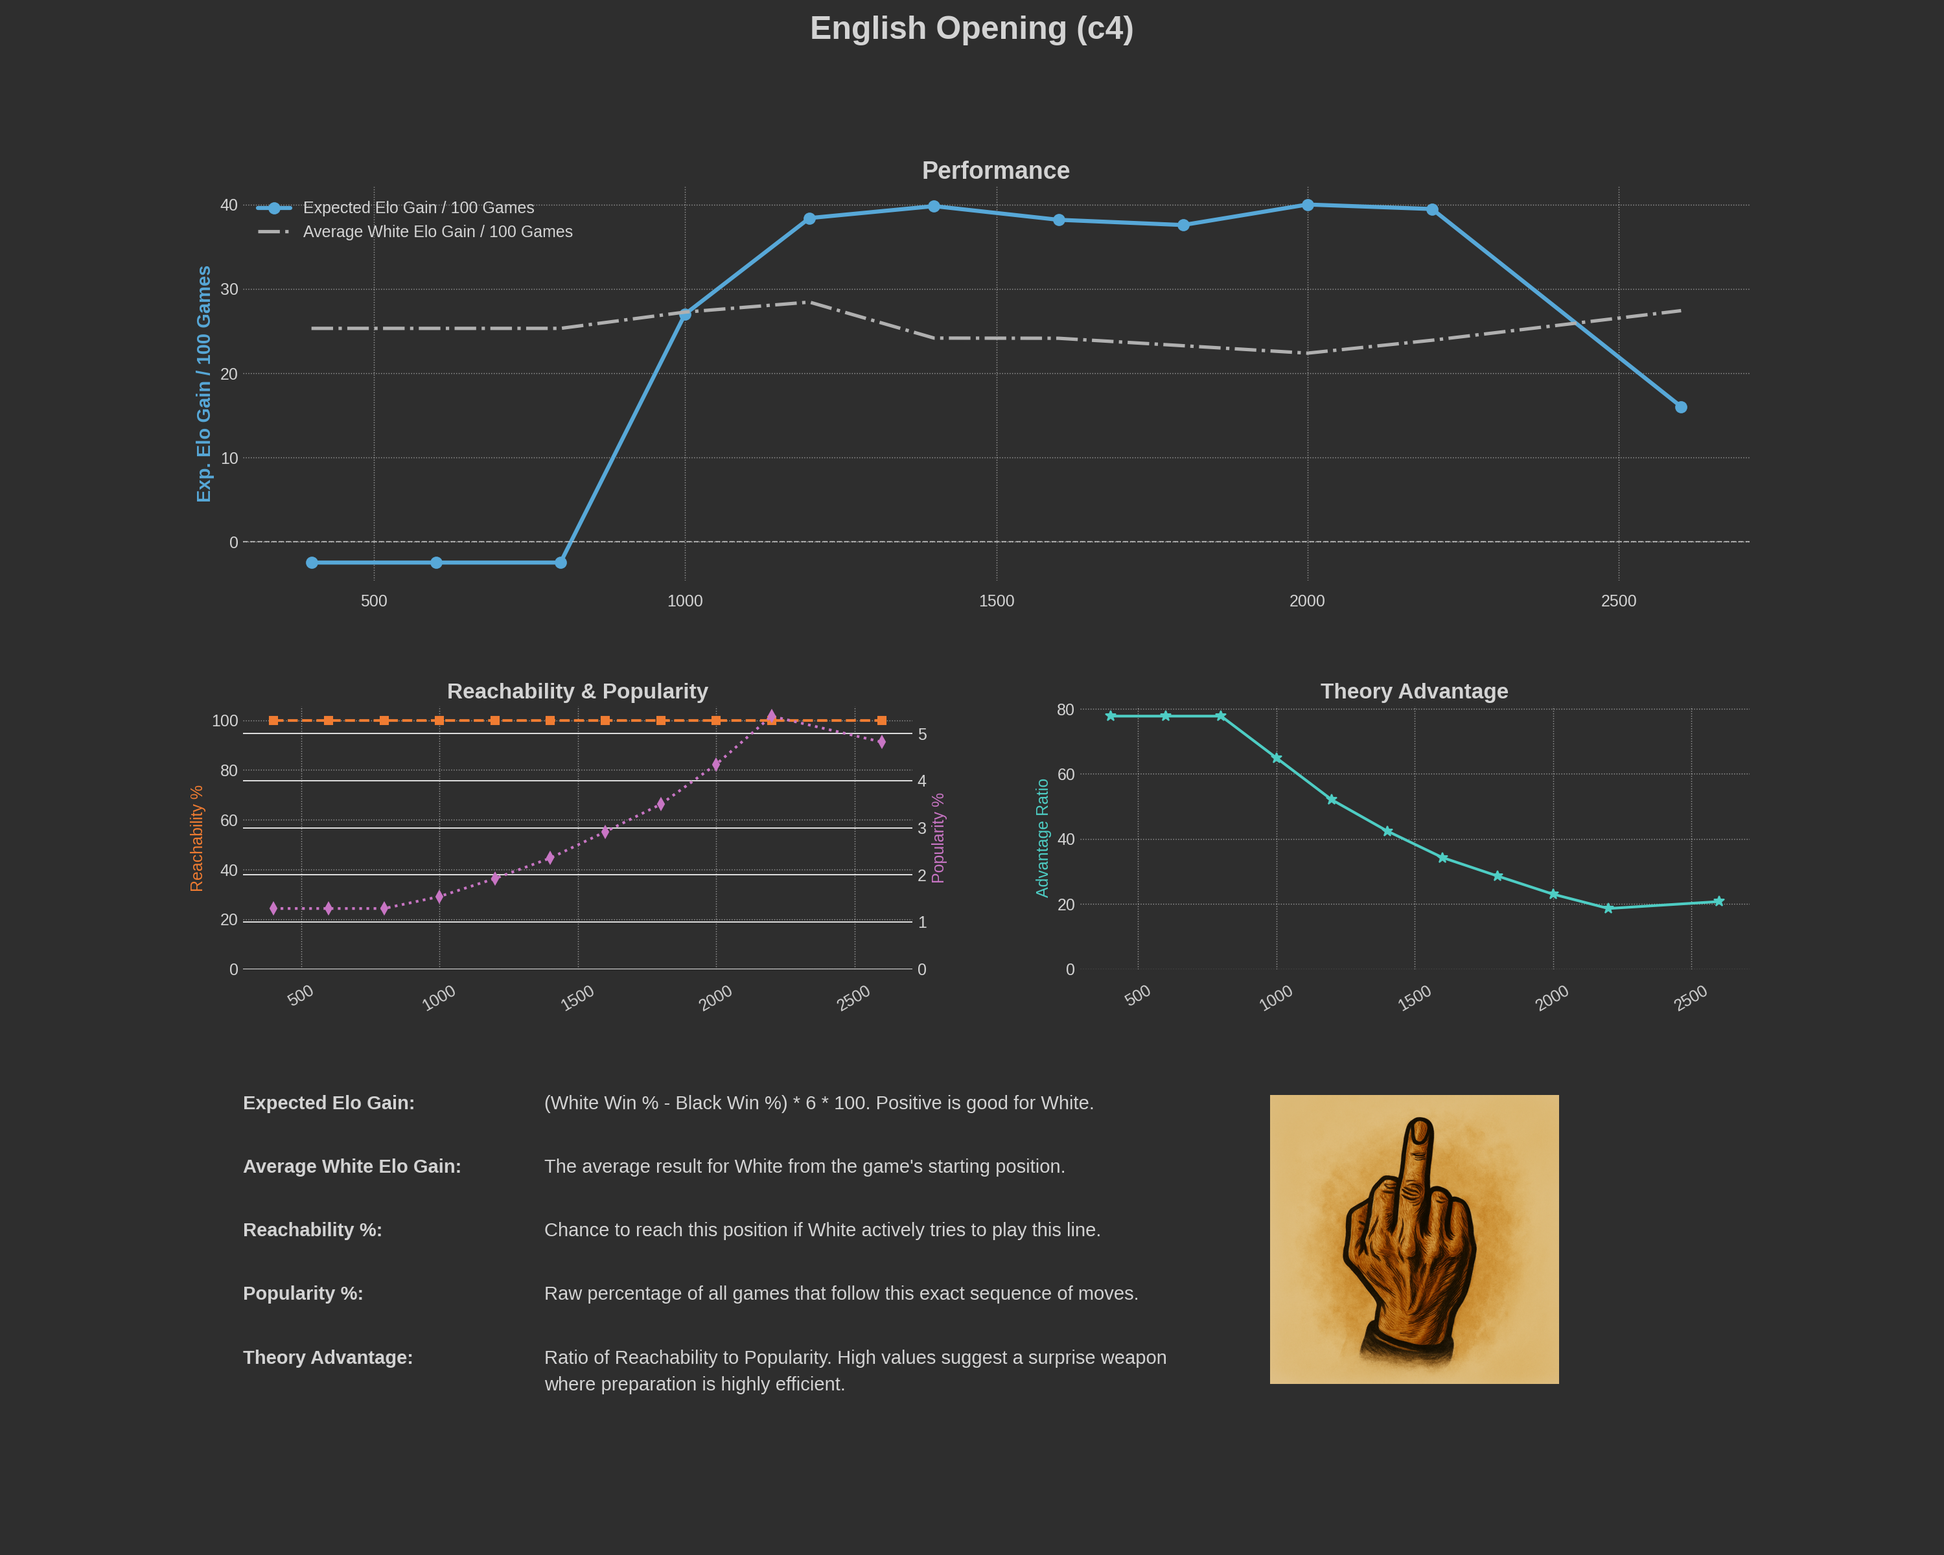
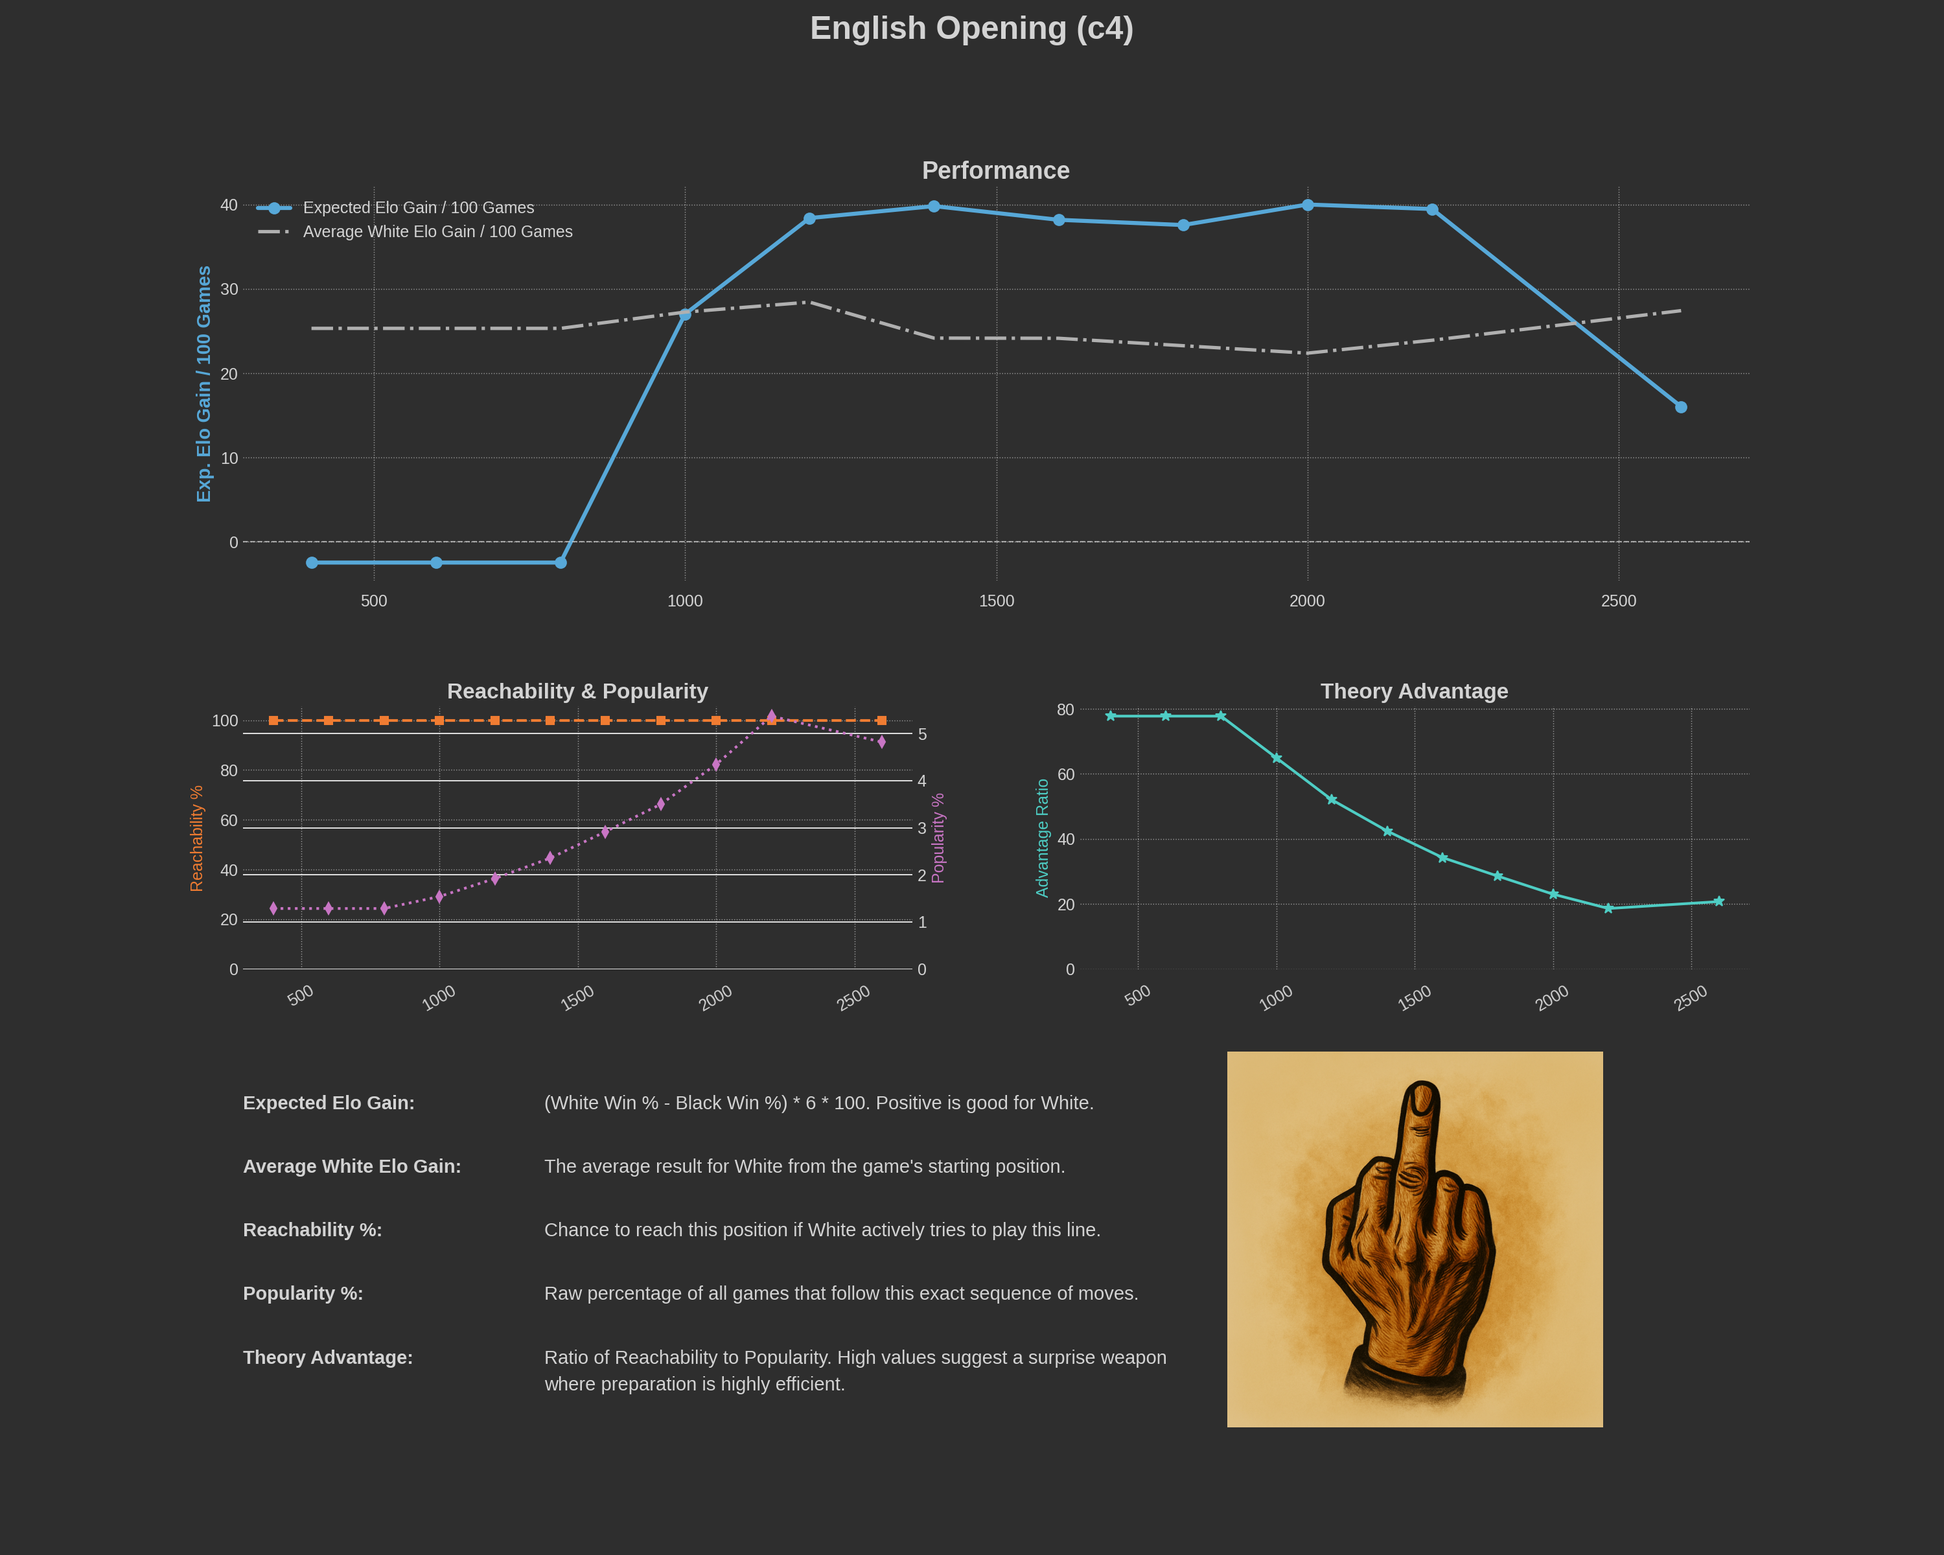
Better plots!

Changed region(s): [[0.62, 0.6562, 0.837, 0.9375]]

diff --git a/wickedlines.py b/wickedlines.py
@@ -24,7 +24,8 @@ except ImportError:
 # --- Configuration ---
 HunterConfig = namedtuple('HunterConfig', ['MIN_GAMES', 'MIN_REACH_PCT', 'DELTA_EV_THRESHOLD', 'P_VALUE_THRESHOLD', 'MAX_DEPTH', 'BRANCH_FACTOR', 'ELO_PER_POINT'])
 DEFAULT_HUNTER_CONFIG = HunterConfig(MIN_GAMES=1000, MIN_REACH_PCT=1.0, DELTA_EV_THRESHOLD=5.0, P_VALUE_THRESHOLD=0.05, MAX_DEPTH=6, BRANCH_FACTOR=4, ELO_PER_POINT=8)
-PLOT_ELO_BRACKETS = ["400", "600", "800", "1000", "1200", "1400", "1600", "1800", "2000", "2200", "2500"]
+# Align with Lichess API enum
+PLOT_ELO_BRACKETS = ["0", "1000", "1200", "1400", "1600", "1800", "2000", "2200", "2500"]
 
 # Predefined list of openings for batch plotting
 BATCH_OPENINGS = [
@@ -319,144 +320,156 @@ def get_stats_for_line(moves, speed, rating_bracket):
     ev = (final_data.get('white', 0) - final_data.get('black', 0)) / final_pos_total_games * 100 if final_pos_total_games > 0 else 0
     return ev, reachability * 100, popularity * 100, root_ev, line_name, forcing_player
 
+
 def run_plot_mode(args):
-    print(colorize(f"\nGenerating plot for line: {' '.join(args.moves)}", Colors.YELLOW))
-    print(f"Fixed Time Control: {args.speed}")
-    print("Querying Lichess database for Elo brackets. This may take a moment...")
+    """
+    Generates four 1080×1920 PNGs (Performance, Reachability,
+    Popularity, Prep-Efficiency) in plots/<moves>_<speed>/.
+    """
 
-    (elo_gain_values, baseline_elo_gain_values, reachability_values,
-     popularity_values, theory_advantage_values) = [], [], [], [], []
-    final_line_name = "Unknown Opening"
-    forcing_player = "White"
-    numeric_elo_ratings = [int(r.replace('2500', '2600')) for r in PLOT_ELO_BRACKETS]
+    # ---------- TWEAKABLES ---------------------------------------------
+    HEADER_FRAC          = 0.20         # header height % (more room)
+    CREDIT_XY            = (0.01, 0.02) # where the tiny credit sits
+    CREDIT_SIZE          = 12
+    ARROW_HEIGHT_FRAC    = 0.45         # yellow arrow vertical pos
+    LOGO_BOX             = [.76, .00, .27, 1.17]  # 30 % bigger & a bit higher
+    WRAP_WIDTH           = 46           # (only used for non-perf charts)
+    # -------------------------------------------------------------------
+
+    import os, numpy as np
+    import matplotlib.pyplot as plt
+    from matplotlib import patheffects as pe
+    from scipy.interpolate import CubicSpline
+
+    # bucket list & mid-points
+    buckets = [int(b) for b in PLOT_ELO_BRACKETS]            # 0 … 2500
+    centres = [(a + b) / 2 for a, b in zip(buckets[:-1], buckets[1:])] + [2600]
+    tick_labels = [str(int(c)) if c != 2600 else "2500+" for c in centres]
+
+    # fetch stats
+    elo_gain, base_gain, reach, pop, theory = [], [], [], [], []
+    final_name, forcing = "Unknown Opening", "White"
     ELO_FACTOR = 6
+    for bucket in buckets:
+        ev, r_, p_, root_ev, name, player = get_stats_for_line(
+            args.moves, args.speed, str(bucket)
+        )
+        adj, base = (ev, root_ev) if player == "White" else (-ev, -root_ev)
+        elo_gain.append(adj * ELO_FACTOR)
+        base_gain.append(base * ELO_FACTOR)
+        reach.append(r_); pop.append(p_); theory.append(r_/p_ if p_ else 0)
+        forcing = player
+        if name not in ("Unknown Opening", "N/A"):
+            final_name = name
 
-    for i, rating in enumerate(PLOT_ELO_BRACKETS):
-        # get_stats_for_line returns ev as a percentage score (e.g., 5.0 for +5%)
-        ev, reach, pop, root_ev, line_name, player = get_stats_for_line(args.moves, args.speed, rating)
-        
-        player_advantage = ev if player == 'White' else ev * -1
-        baseline_advantage = root_ev if player == 'White' else root_ev * -1
-        
-        # Elo gain over 100 games = (Win% - Loss%) * Elo_Factor
-        elo_gain_values.append(player_advantage * ELO_FACTOR)
-        baseline_elo_gain_values.append(baseline_advantage * ELO_FACTOR)
-        
-        theory_advantage_values.append((reach / pop) if pop > 0 else 0)
-        reachability_values.append(reach)
-        popularity_values.append(pop)
+    # paths & colours
+    moves_id, speed_id = "_".join(args.moves).lower(), args.speed.lower()
+    outdir = os.path.join("plots", f"{moves_id}_{speed_id}")
+    os.makedirs(outdir, exist_ok=True)
 
-        if line_name != "Unknown Opening": final_line_name = line_name
-        forcing_player = player
-        print(f"  ({i+1}/{len(PLOT_ELO_BRACKETS)}) Processed {rating} Elo... Elo Gain/100: {elo_gain_values[-1]:+.2f}")
+    C = dict(bg="#121212", grid="#444", txt="#e9e9e9", cap="#c7c7c7",
+             perf="#57a8d8", reach="#f07c32", pop="#c875c4",
+             theory="#4ecdc4", base="#b0b0b0", arrow="#efd545")
 
-    print(colorize("\nData collection complete. Generating final plot...", Colors.GREEN))
+    def save(fig, tag):
+        fig.savefig(os.path.join(outdir, f"{moves_id}_{speed_id}_{tag}.png"),
+                    facecolor=fig.get_facecolor())
+        plt.close(fig)
 
-    plt.style.use('seaborn-v0_8-darkgrid')
-    fig = plt.figure(figsize=(20, 16)) # Significantly larger figure
-    fig.set_facecolor('#2E2E2E')
+    # helpers
+    def fig_axes():
+        fig = plt.figure(figsize=(6.02, 10.666), dpi=180, facecolor=C["bg"])
+        gs  = fig.add_gridspec(100, 1, left=.08, right=.98)
+        head = fig.add_subplot(gs[:int(HEADER_FRAC*100), 0]); head.axis("off")
+        ax   = fig.add_subplot(gs[int(HEADER_FRAC*100):, 0])
+        ax.set_facecolor(C["bg"]); ax.grid(True, ls=":", lw=.7, color=C["grid"])
+        for s in ax.spines.values(): s.set_edgecolor(C["grid"])
+        ax.tick_params(colors=C["txt"], labelsize=13)
+        return fig, head, ax
 
-    # Define the grid layout for charts and the text/logo area
-    gs = fig.add_gridspec(3, 2, height_ratios=[3, 2, 2.2], width_ratios=(1,1), hspace=0.4, wspace=0.25)
-    ax1 = fig.add_subplot(gs[0, :])
-    ax2 = fig.add_subplot(gs[1, 0])
-    ax3 = fig.add_subplot(gs[1, 1])
-    text_ax = fig.add_subplot(gs[2, 0])
-    logo_ax = fig.add_subplot(gs[2, 1])
+    def header(ax, title, col):
+        ax.text(0, .78, "Chess Opening Statistics", color=C["cap"],
+                fontsize=19, weight="semibold")
+        ax.text(0, .54, final_name, color=C["txt"],
+                fontsize=25, weight="bold")
+        ax.text(0, .32, f"({' '.join(args.moves)}) — {args.speed.capitalize()}",
+                color=C["txt"], fontsize=18, weight="semibold")
+        ax.text(0, .10, title, color=col, fontsize=22, weight="bold")
+        logo = f"{''.join(args.moves)}_logo.png"
+        if os.path.exists(logo):
+            try:
+                box = ax.inset_axes(LOGO_BOX)
+                box.imshow(plt.imread(logo)); box.axis("off")
+            except Exception:
+                pass
 
-    color_elo = '#57A8D8'
-    color_reach = '#F07C32'
-    color_pop = '#C875C4'
-    color_theory = '#4ECDC4'
-    color_base = '#B0B0B0'
-    light_text_color = '#D3D3D3'
+    def xaxis(ax):
+        ax.set_xticks(centres)
+        ax.set_xticklabels(tick_labels, rotation=45, ha="right", color=C["txt"])
+        ax.set_xlabel("Player rating (Elo)", labelpad=15, color=C["txt"], fontsize=16)
 
-    for ax in [ax1, ax2, ax3]:
-        ax.set_facecolor('#2E2E2E')
-        for spine in ax.spines.values(): spine.set_edgecolor('gray')
-        ax.tick_params(axis='y', colors=light_text_color, labelsize=12)
-        ax.tick_params(axis='x', colors=light_text_color, labelsize=12, rotation=30, pad=10)
-        ax.grid(True, which='major', axis='both', linestyle=':', linewidth=0.7, alpha=0.5)
+    def smooth(ax, xs, ys, col, label=None):
+        cs = CubicSpline(xs, ys)
+        dense = np.linspace(xs[0], xs[-1], 400)
+        ax.plot(dense, cs(dense), color=col, lw=2.4, label=label)
+        ax.plot(xs, ys, "o", ms=7, color=col)
 
-    # Plot 1: Performance
-    ax1.set_title("Performance", color=light_text_color, fontsize=18, weight='bold')
-    ax1.set_ylabel("Exp. Elo Gain / 100 Games", color=color_elo, fontsize=14, weight='bold')
-    ax1.plot(numeric_elo_ratings, elo_gain_values, 'o-', color=color_elo, label="Expected Elo Gain / 100 Games", markersize=8, linewidth=3)
-    ax1.plot(numeric_elo_ratings, baseline_elo_gain_values, linestyle='-.', color=color_base, label=f"Average {forcing_player} Elo Gain / 100 Games", linewidth=2.5)
-    ax1.axhline(0, color='lightgray', linestyle='--', linewidth=1.0, alpha=0.7)
-    ax1.legend(facecolor='#424242', edgecolor='gray', labelcolor=light_text_color, fontsize=12)
-    plt.setp(ax1.get_xticklabels(), rotation=0)
-
-    # Plot 2: Reachability & Popularity
-    ax2.set_title("Reachability & Popularity", color=light_text_color, fontsize=16, weight='bold')
-    ax2.set_ylabel('Reachability %', color=color_reach, fontsize=12)
-    ax2.plot(numeric_elo_ratings, reachability_values, 's--', color=color_reach, markersize=6, linewidth=2)
-    ax2.set_ylim(bottom=0)
-    ax2_twin = ax2.twinx()
-    ax2_twin.set_ylabel('Popularity %', color=color_pop, fontsize=12)
-    ax2_twin.plot(numeric_elo_ratings, popularity_values, 'd:', color=color_pop, markersize=6, linewidth=2)
-    ax2_twin.spines['right'].set_edgecolor('gray')
-    ax2_twin.tick_params(axis='y', colors=light_text_color, labelsize=12)
-    ax2_twin.set_ylim(bottom=0)
-
-    # Plot 3: Theory Advantage
-    ax3.set_title("Theory Advantage", color=light_text_color, fontsize=16, weight='bold')
-    ax3.set_ylabel('Advantage Ratio', color=color_theory, fontsize=12)
-    ax3.plot(numeric_elo_ratings, theory_advantage_values, '*-', color=color_theory, markersize=8, linewidth=2)
-    ax3.set_ylim(bottom=0)
-
-    # Area 4: Text Explanations
-    text_ax.axis('off')
-    if forcing_player == 'White':
-        elo_formula = f"(White Win % - Black Win %) * {ELO_FACTOR} * 100"
-    else:
-        elo_formula = f"(Black Win % - White Win %) * {ELO_FACTOR} * 100"
-
-    # Two-column layout for text to prevent overlap
-    bold_titles = [
-        "Expected Elo Gain:",
-        f"Average {forcing_player} Elo Gain:",
-        "Reachability %:",
-        "Popularity %:",
-        "Theory Advantage:"
+    # chart definitions
+    charts = [
+        ("Performance", C["perf"], elo_gain, True),
+        ("Reachability", C["reach"], reach, False),
+        ("Popularity",  C["pop"],  pop,  False),
+        ("Prep Efficiency", C["theory"], theory, False),
     ]
-    descriptions = [
-        f"{elo_formula}. Positive is good for {forcing_player}.",
-        f"The average result for {forcing_player} from the game's starting position.",
-        f"Chance to reach this position if {forcing_player} actively tries to play this line.",
-        "Raw percentage of all games that follow this exact sequence of moves.",
-        "Ratio of Reachability to Popularity. High values suggest a surprise weapon\nwhere preparation is highly efficient."
-    ]
-    
-    y_pos = 1.0
-    for i in range(len(bold_titles)):
-        text_ax.text(0.0, y_pos, bold_titles[i], ha='left', va='top', fontsize=14, color=light_text_color, weight='bold', transform=text_ax.transAxes)
-        text_ax.text(0.45, y_pos, descriptions[i], ha='left', va='top', fontsize=14, color=light_text_color, transform=text_ax.transAxes, linespacing=1.6)
-        y_pos -= 0.22
 
-    # Area 5: Logo
-    logo_ax.axis('off')
-    logo_filename = f"{''.join(args.moves)}_logo.png"
-    if os.path.exists(logo_filename):
-        try:
-            img = plt.imread(logo_filename)
-            logo_ax.imshow(img)
-        except Exception as e:
-            print(colorize(f"Warning: Could not load logo '{logo_filename}': {e}", Colors.YELLOW))
+    for title, col, data, is_perf in charts:
+        fig, head, ax = fig_axes()
+        header(head, title, col); xaxis(ax)
 
-    # Global Title
-    line_str = f"({' '.join(args.moves)})"
-    title_opening_name = final_line_name if final_line_name not in ["Unknown Opening", "N/A"] else ""
-    fig.suptitle(f"{title_opening_name} {line_str}", color=light_text_color, fontsize=24, weight='bold', y=0.99)
-    
-    fig.tight_layout(rect=[0.03, 0.03, 0.97, 0.95])
-    
-    plots_dir = "plots"
-    os.makedirs(plots_dir, exist_ok=True)
-    filename = f"{'_'.join(args.moves).replace(' ', '_')}_{args.speed}.png"
-    filepath = os.path.join(plots_dir, filename)
-    plt.savefig(filepath, dpi=150, facecolor=fig.get_facecolor())
-    plt.show()
+        if not is_perf:
+            pad = max(data)*0.10
+            ax.set_ylim(min(data)-pad, max(data)+pad)
+
+        # main curve
+        main_label = ("Elo Gain (per 100 games)" if is_perf else None)
+        smooth(ax, centres, data, col, label=main_label)
+
+        # extras for Performance
+        if is_perf:
+            base_label = f"Baseline (avg. {forcing} performance)"
+            smooth(ax, centres, base_gain, C["base"], label=base_label)
+            mid = len(centres)//2
+            ax.annotate("above baseline → better",
+                        xy=(centres[mid], base_gain[mid]),
+                        xytext=(centres[mid],
+                                ax.get_ylim()[0] +
+                                ARROW_HEIGHT_FRAC*(ax.get_ylim()[1]-ax.get_ylim()[0])),
+                        arrowprops=dict(arrowstyle="-|>", color=C["arrow"], lw=1.2,
+                                        path_effects=[pe.withStroke(
+                                            linewidth=3, foreground=C["bg"])]),
+                        color=C["arrow"], fontsize=11, ha="center")
+
+        # put explanation inside legend for non-perf charts
+        if not is_perf:
+            expl = {"Reachability": "Chance Black can steer into this line",
+                    "Popularity":  "Raw share of games with this move-order",
+                    "Prep Efficiency": "Higher → stronger surprise-weapon potential"}[title]
+            ax.plot([], [], ' ', label=expl)
+
+        # legend
+        ax.legend(facecolor="#222", edgecolor="#555", fontsize=13,
+                  labelcolor=C["txt"], loc="upper right")
+
+        # tiny credit
+        ax.text(*CREDIT_XY, "Created with the open-source tool Wicked Lines",
+                transform=ax.transAxes, color=C["cap"],
+                fontsize=CREDIT_SIZE, ha="left", va="bottom")
+
+        save(fig, title.lower().replace(" ", ""))
+
+    print(f"PNG files written to {outdir}")
+
+
     
 def run_batch_plot_mode(args):
     total_openings = len(BATCH_OPENINGS)
@@ -591,13 +604,30 @@ def main():
     parser_line = subparsers.add_parser('line', help="Analyze a single, specific line of moves.")
     parser_line.add_argument("moves", nargs="+", help="Move list in SAN (e.g., e4 e5 Nf3 Nc6)")
     parser_line.add_argument("--speeds", default="blitz,rapid,classical", help="Comma-separated speed filters. Default: blitz,rapid,classical")
-    parser_line.add_argument("--ratings", default="1600,1800", help="Comma-separated rating filters. Default: 1600,1800")
+    parser_line.add_argument("--ratings",
+    default="1600",
+    help=(
+        "Comma-separated rating buckets (enum: "
+        "0,1000,1200,1400,1600,1800,2000,2200,2500). "
+        "Each bucket covers its value up to the next (e.g. 1600 means 1600→1799). "
+        "Default: 1600"
+    ),
+    )
+    
     parser_line.set_defaults(func=run_line_mode)
 
     parser_hunt = subparsers.add_parser('hunt', help="Recursively search for interesting opportunities and blunders.")
     parser_hunt.add_argument("moves", nargs="*", help="Optional initial move sequence to start the hunt from.")
     parser_hunt.add_argument("--speeds", default="blitz,rapid,classical", help="Comma-separated speed filters. Default: blitz,rapid,classical")
-    parser_hunt.add_argument("--ratings", default="1600,1800", help="Comma-separated rating filters. Default: 1600,1800")
+    parser_hunt.add_argument("--ratings",
+        default="1600",
+        help=(
+            "Comma-separated rating buckets (enum: "
+            "0,1000,1200,1400,1600,1800,2000,2200,2500). "
+            "Each bucket covers its value up to the next (e.g. 1600 means 1600→1799). "
+            "Default: 1600"
+        ),
+    )
     parser_hunt.add_argument("--max-finds", type=int, help="Stop the search after finding N interesting lines.")
     parser_hunt.set_defaults(func=run_hunt_mode)
 
